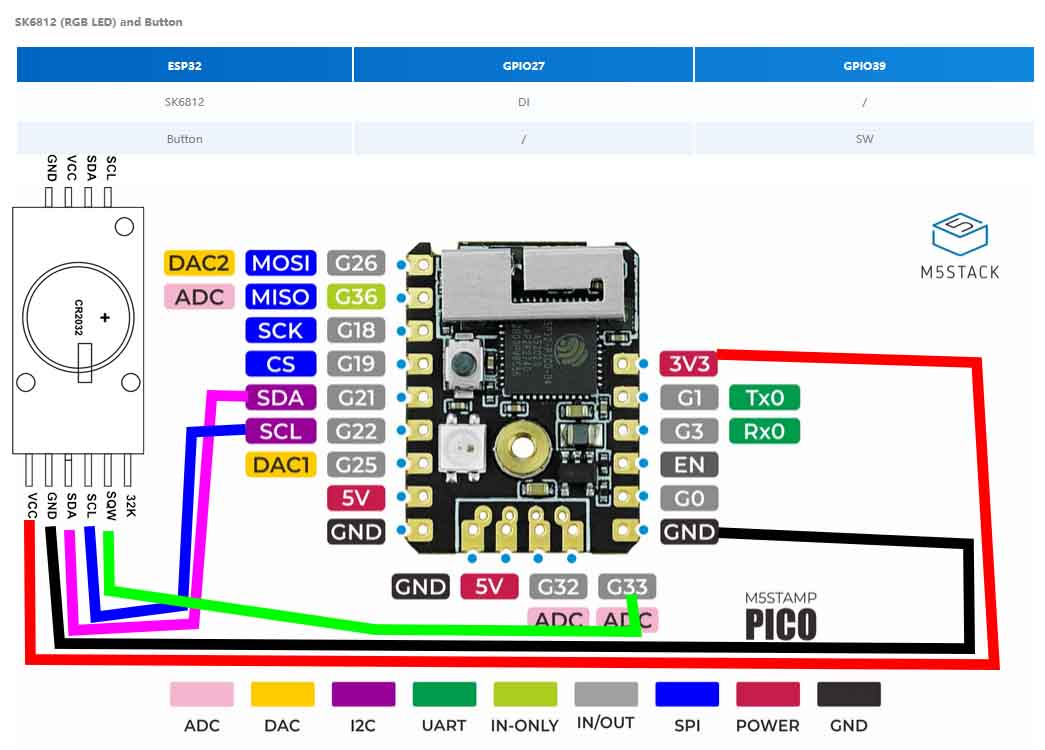
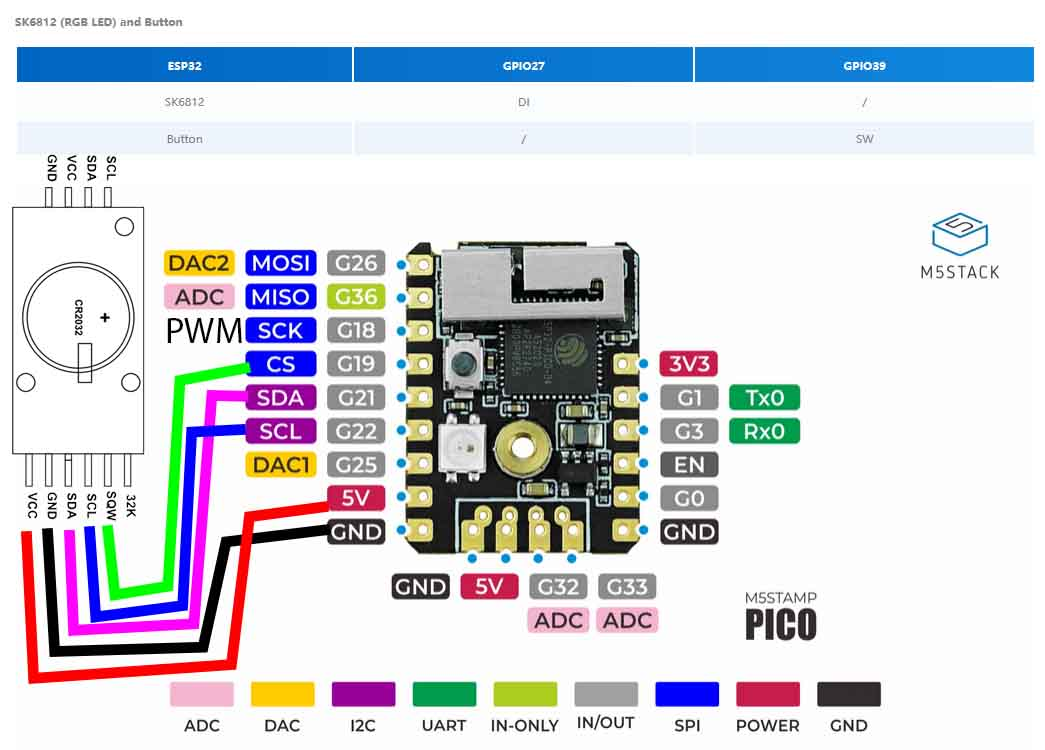
change map pin

Changed region(s): [[0.0, 0.4293, 0.9799, 0.92]]

diff --git a/src/variable.h b/src/variable.h
@@ -5,7 +5,7 @@
 #define PWM_FREQUENCY 5000 //
 #define PWM_RESOLUTION 16  //
 
-uint8_t PWM_GPIOPIN[1] = {32};
+uint8_t PWM_GPIOPIN[1] = {18};
 uint8_t BTN_GPIOPIN = 39;
 
 long previousMillis = 0;
@@ -24,7 +24,7 @@ long fade_out = 8;            // Seconds
 long decalage = 2000;         // Milliseconds
 long on = 60000;              // Milliseconds
 long off = 40000;             // Milliseconds
-uint16_t High_value = 52428; // 65535= 100% donc 655,35 = 1% ,52428 = 80% , 58981 = 90%
+uint16_t High_value = 65535; // 65535= 100% donc 655,35 = 1% ,52428 = 80% , 58981 = 90%
 
 int value[PWM_CHANNELS] = {0};
 
